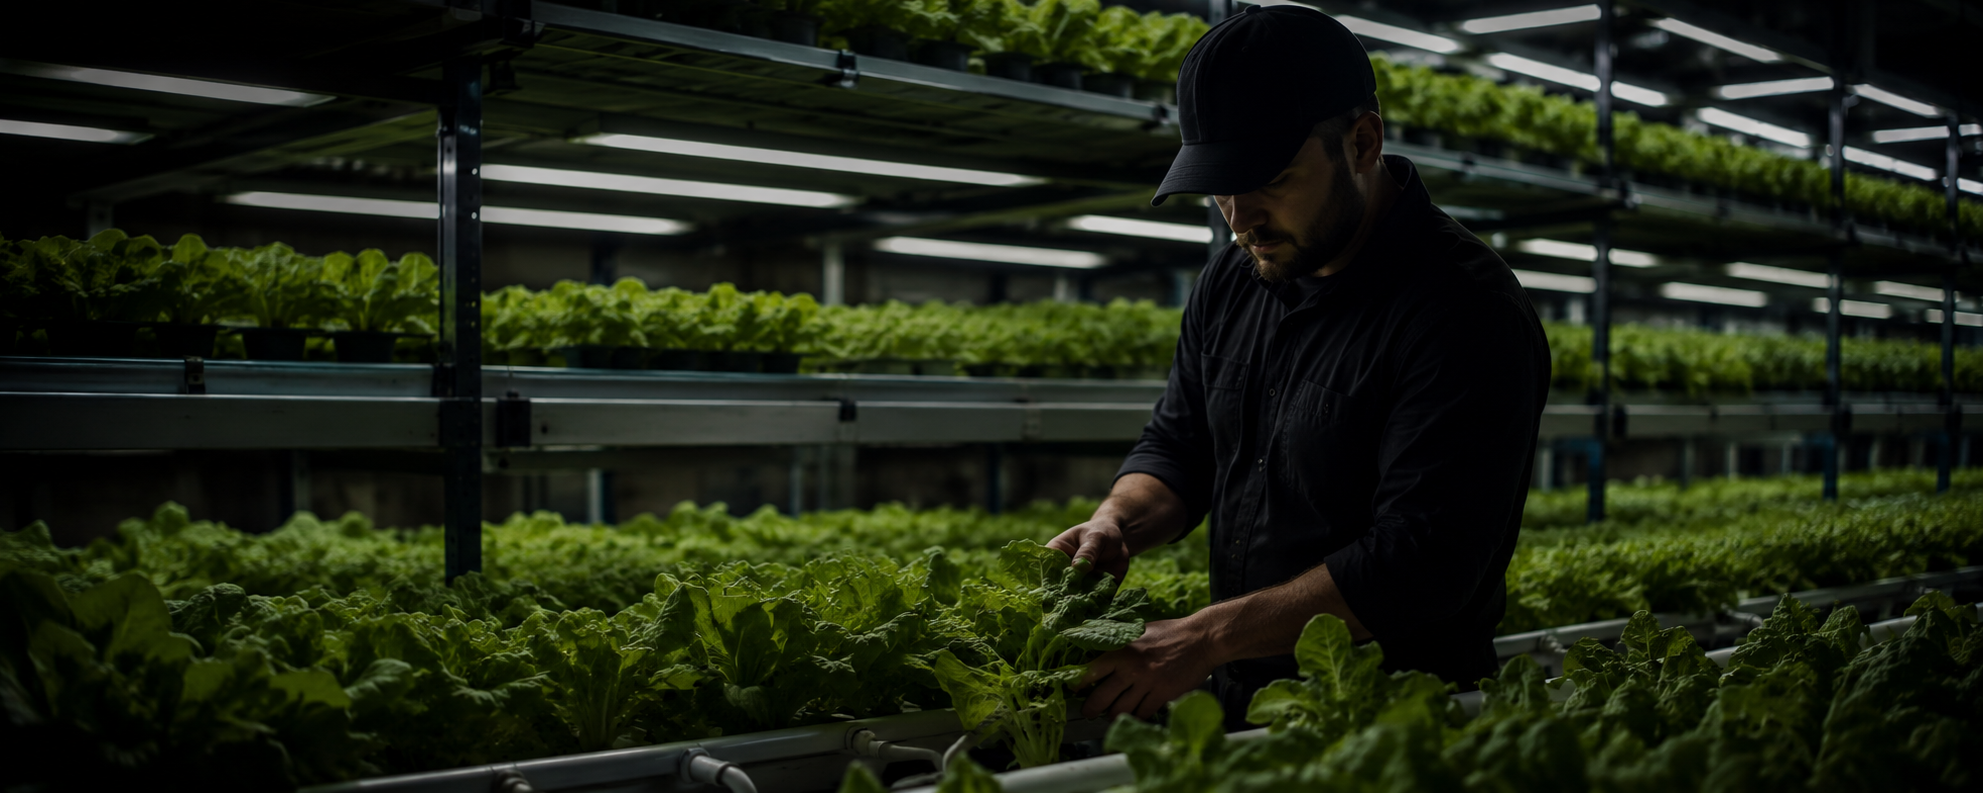
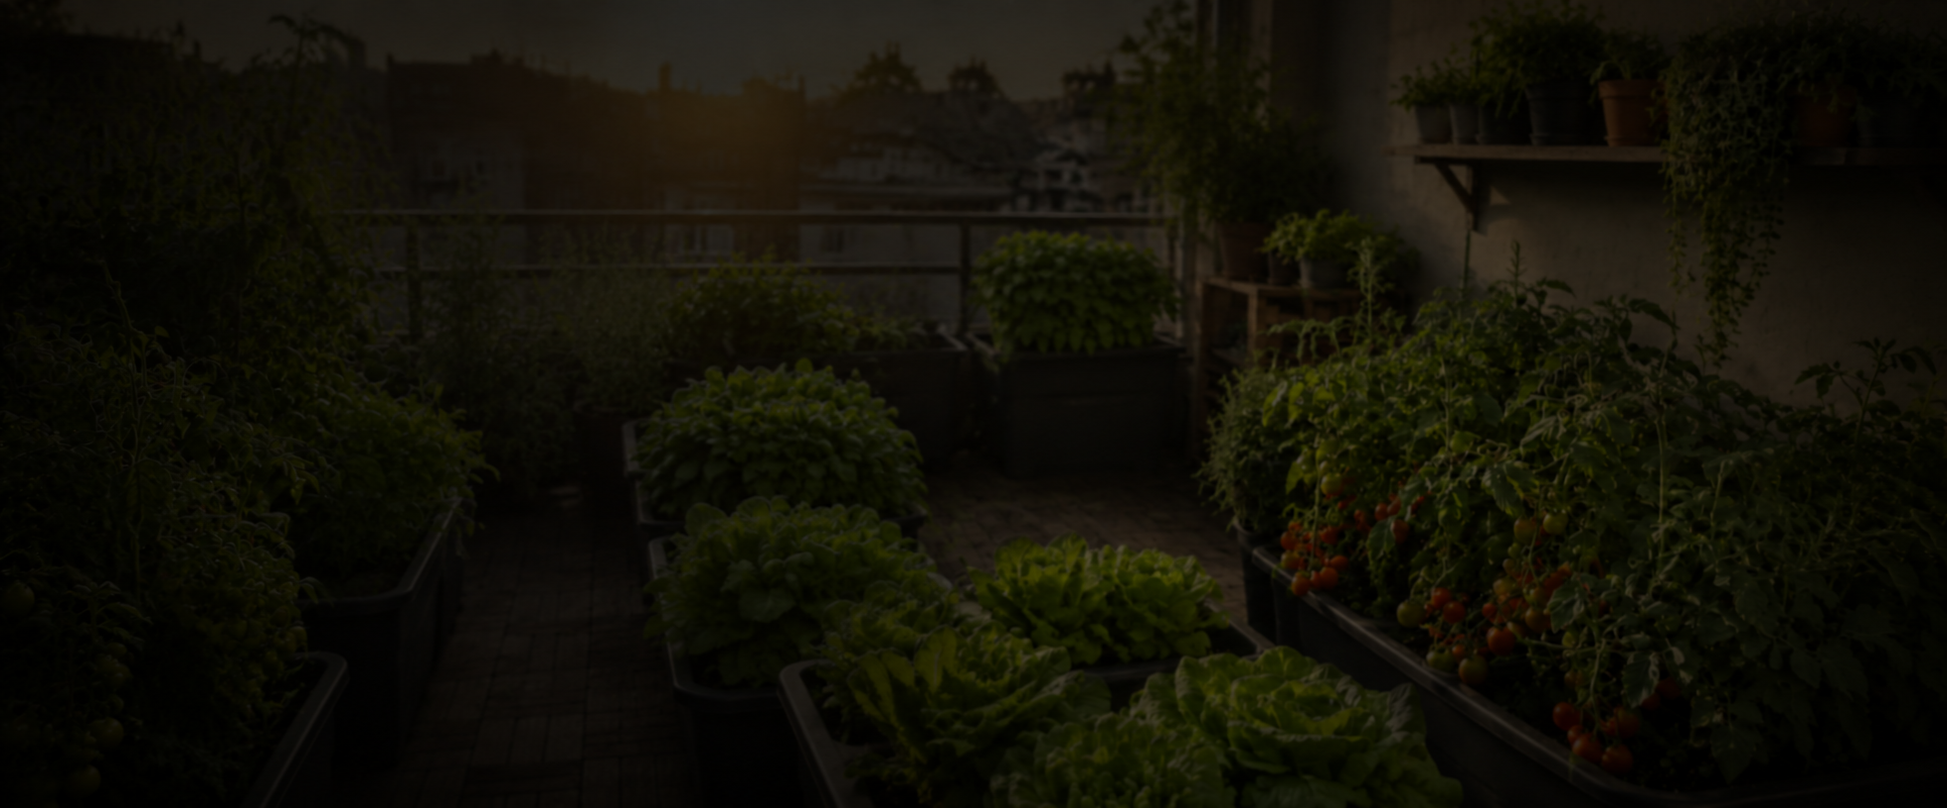
Actualización de HOME
Imagenes y carrusel

diff --git a/livedemo00.template-help.com/wt_prod-10492/theme/index.html b/livedemo00.template-help.com/wt_prod-10492/theme/index.html
@@ -280,21 +280,21 @@
             </div>
           </div>
 
-          <div class="swiper-slide" data-slide-bg="images/SLIDE.png">
+          <div class="swiper-slide" data-slide-bg="images/SLIDE1.png">
             <div class="swiper-slide-caption section-md">
               <div class="container">
                 <h4 class="swiper-title-3" data-caption-animate="fadeInLeft" data-caption-delay="200">Welcome to Hydronexis</h4>
-                <h3 class="swiper-title-2" data-caption-animate="fadeInRight" data-caption-delay="200">Grow Smart, Live Greener</h3>
+                <h3 class="swiper-title-2" data-caption-animate="fadeInRight" data-caption-delay="200">GROW FRESH. LIVE NATURALLY.</h3>
                 <div class="button-wrap" data-caption-animate="fadeInUp" data-caption-delay="300"><a class="button button-lg button-shadow-3 button-secondary button-zakaria" href="grid-shop.html">Shop now</a></div>
               </div>
             </div>
           </div>
 
-          <div class="swiper-slide" data-slide-bg="images/SLIDE.png">
+          <div class="swiper-slide" data-slide-bg="images/SLIDE2.png">
             <div class="swiper-slide-caption section-md">
               <div class="container">
                 <h4 class="swiper-title-3" data-caption-animate="fadeInLeft" data-caption-delay="200">Welcome to Hydronexis</h4>
-                <h3 class="swiper-title-2" data-caption-animate="fadeInRight" data-caption-delay="200">Grow Smart, Live Greener</h3>
+                <h3 class="swiper-title-2" data-caption-animate="fadeInRight" data-caption-delay="200">A COMMUNITY THAT GROWS TOGETHER.</h3>
                 <div class="button-wrap" data-caption-animate="fadeInUp" data-caption-delay="300"><a class="button button-lg button-shadow-3 button-secondary button-zakaria" href="grid-shop.html">Shop now</a></div>
               </div>
             </div>
